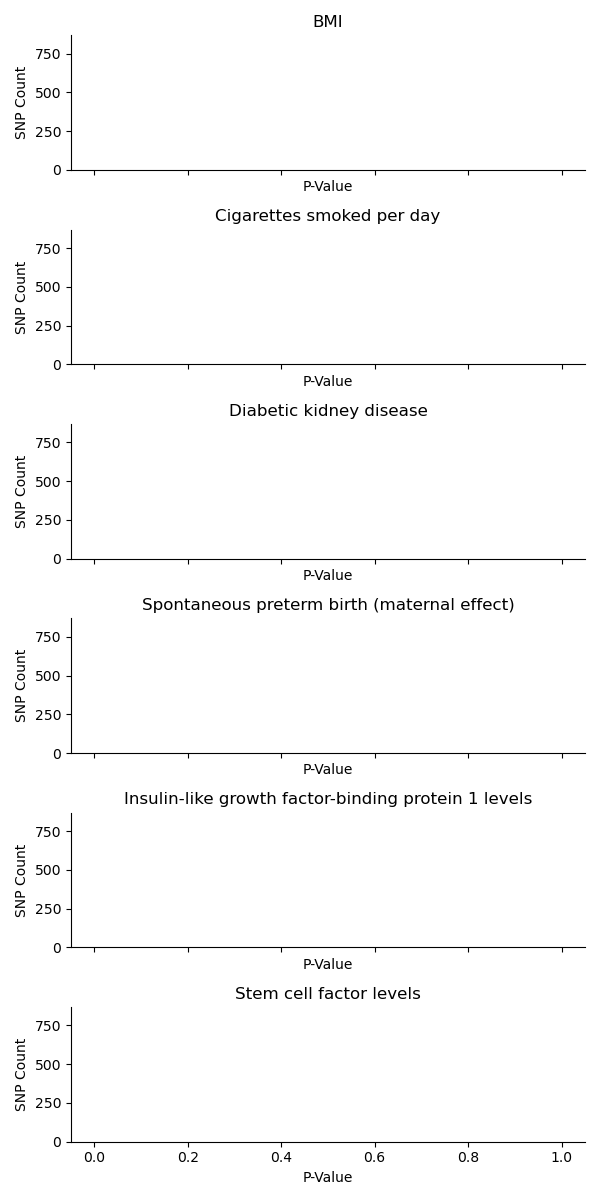
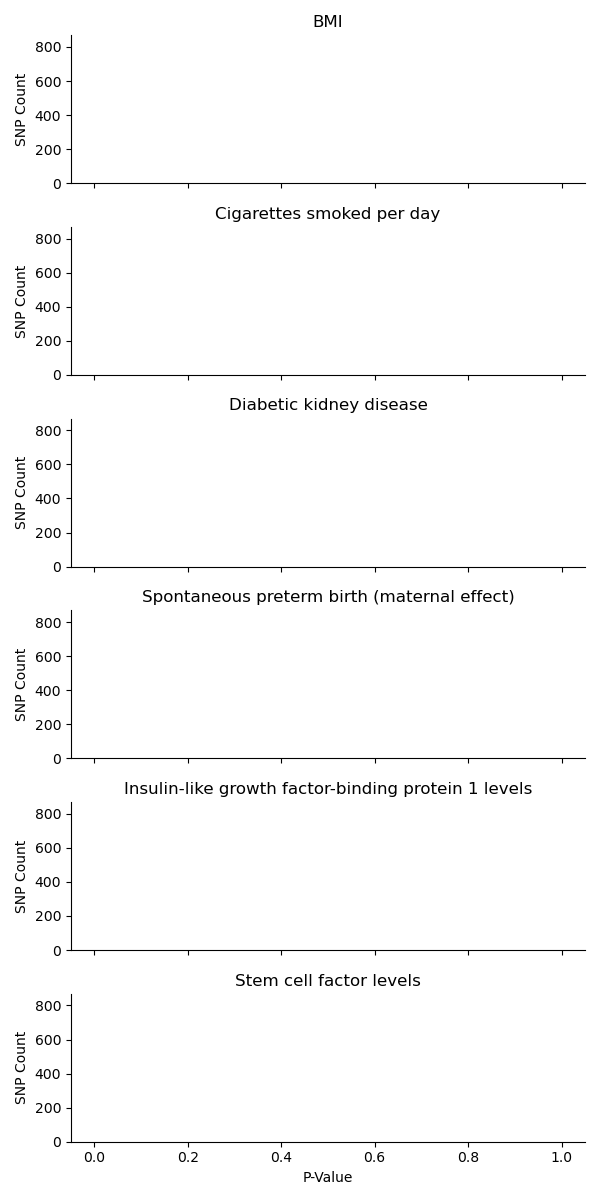
updating plots and search with bash

diff --git a/scripts/python/tabix/plot_sig_snps.py b/scripts/python/tabix/plot_sig_snps.py
@@ -85,12 +85,14 @@ def plot_snps_per_gene(trait_dict,
 
         # labeling
         ax[i].set_ylabel('Gene Count')
-        ax[i].set_xlabel('Number of Significant SNPs per Gene')
         ax[i].set_title(trait)
 
         # formatting
         ax[i].spines['top'].set_visible(False)
         ax[i].spines['right'].set_visible(False)
+
+    # add x-axis label to the last subplot
+    ax[-1].set_xlabel('Significant SNPs per Gene')
 
     plt.tight_layout()
     plt.savefig(figures_dir + 'snps_per_gene.png')
@@ -120,12 +122,14 @@ def plot_pvalue_dist(trait_dict,
 
         # labeling
         ax[i].set_ylabel('SNP Count')
-        ax[i].set_xlabel('P-Value')
         ax[i].set_title(trait)
 
         # formatting
         ax[i].spines['top'].set_visible(False)
         ax[i].spines['right'].set_visible(False)
+
+    # add x-axis label to the last subplot
+    ax[-1].set_xlabel('P-Value')
 
     plt.tight_layout()
     plt.savefig(figures_dir + 'pvalue_dist.png')
